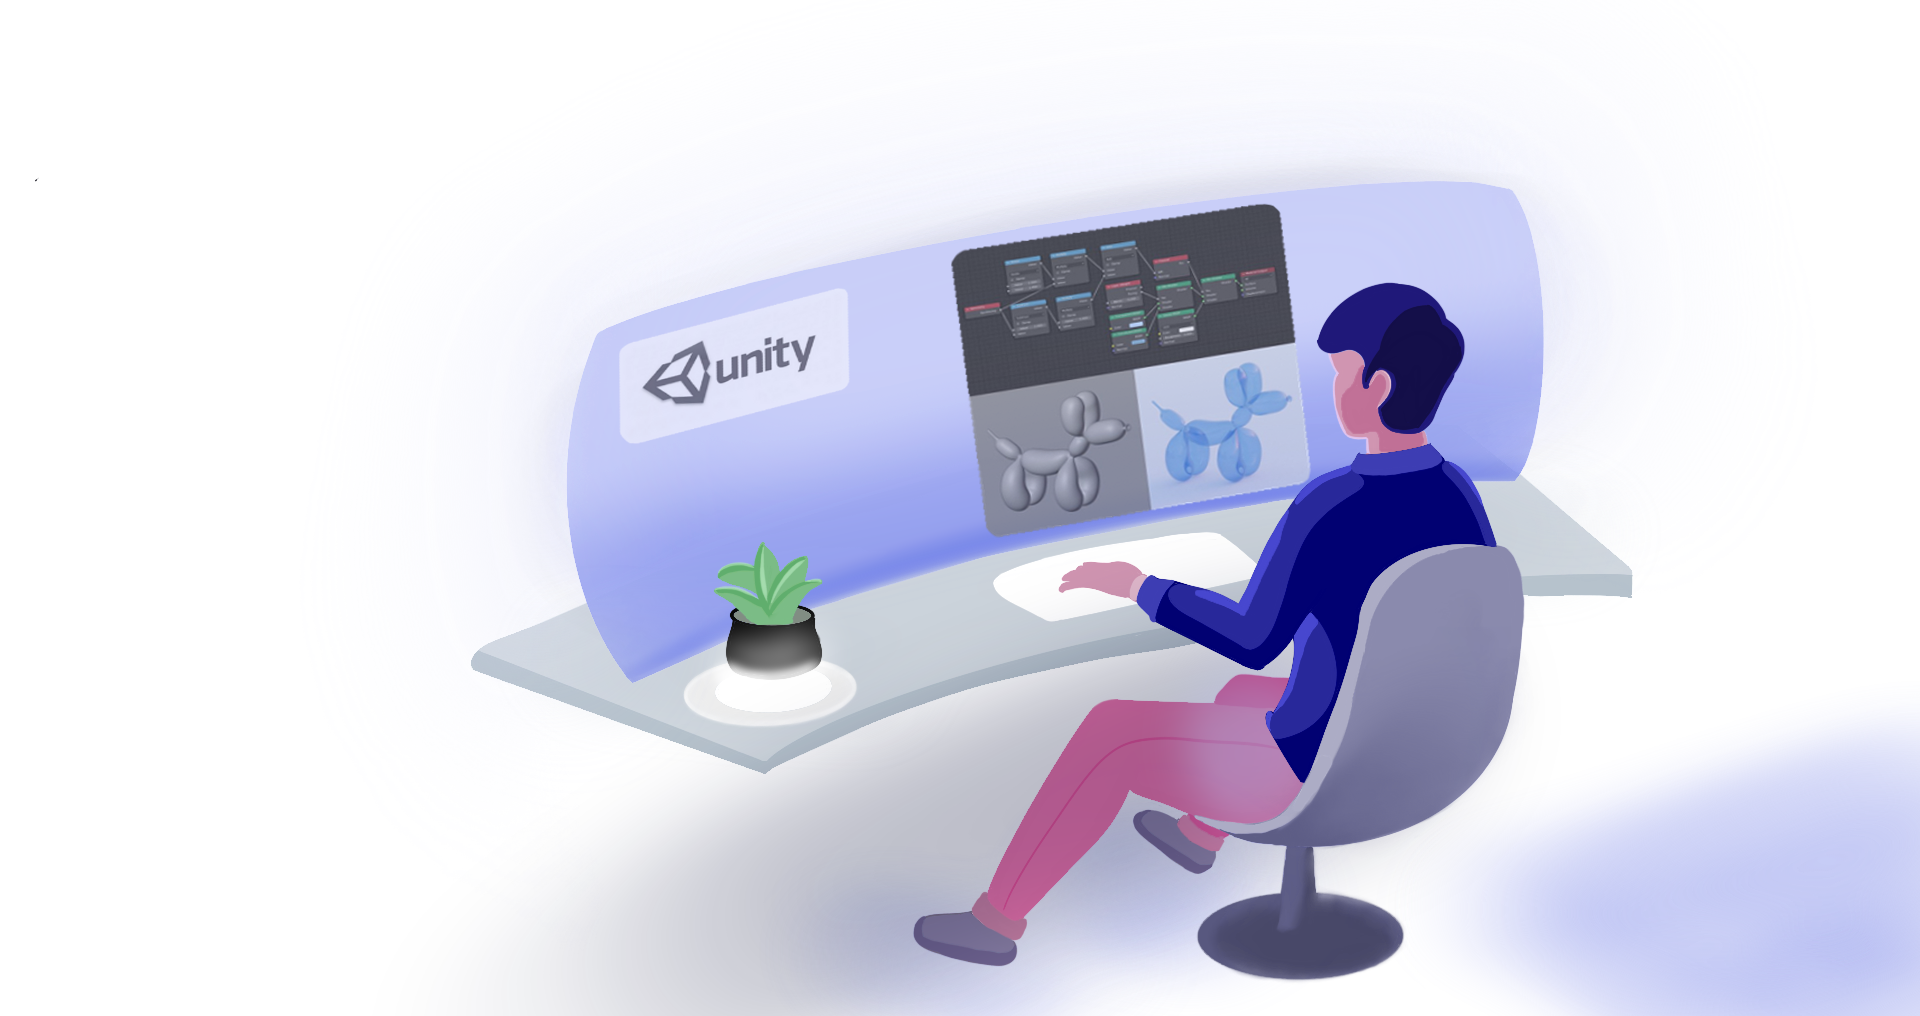
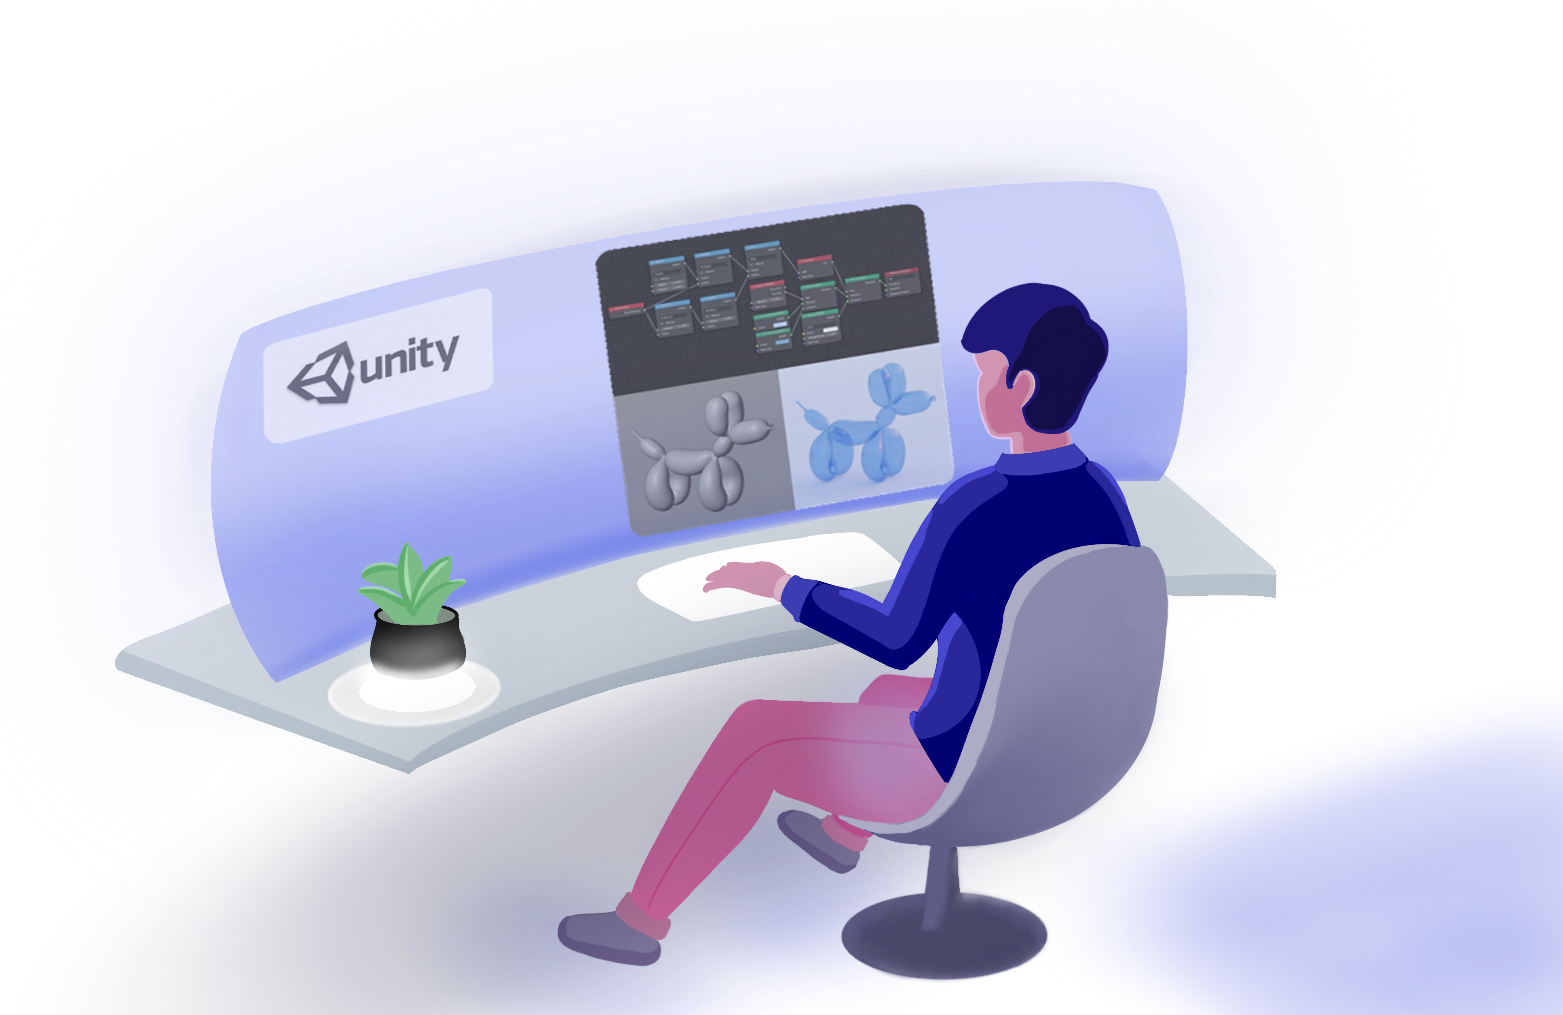
join us pic change

diff --git a/index.html b/index.html
@@ -299,7 +299,7 @@ Licence URI: http://www.os-templates.com/template-terms
      
     <div class="join-right" data-aos="fade-left"
       data-aos-duration="300" data-aos-delay="0">
-        <img src="images/102.png" alt="">
+        <img src="images/106.png" alt="">
     </div>
      
    
